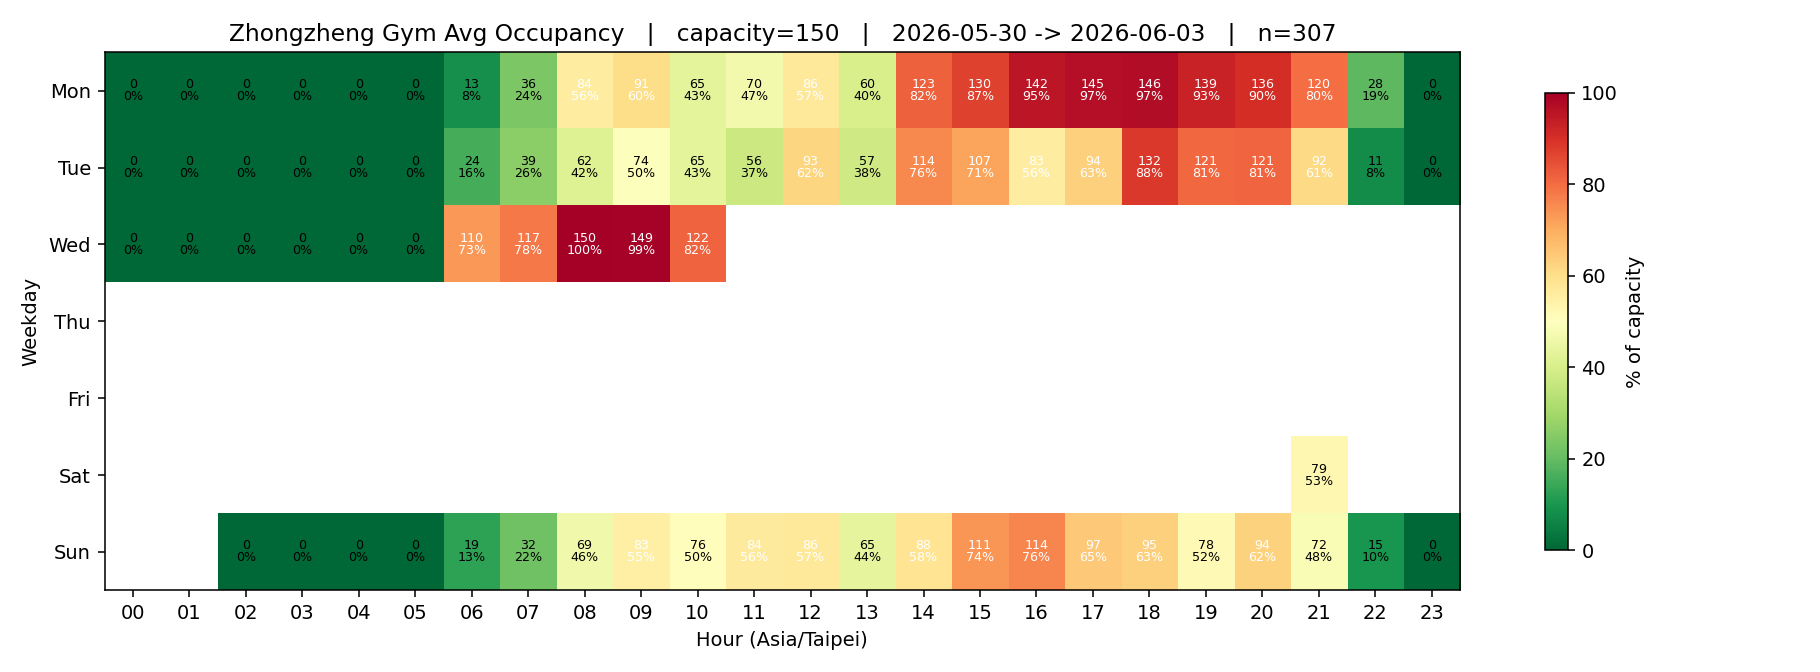
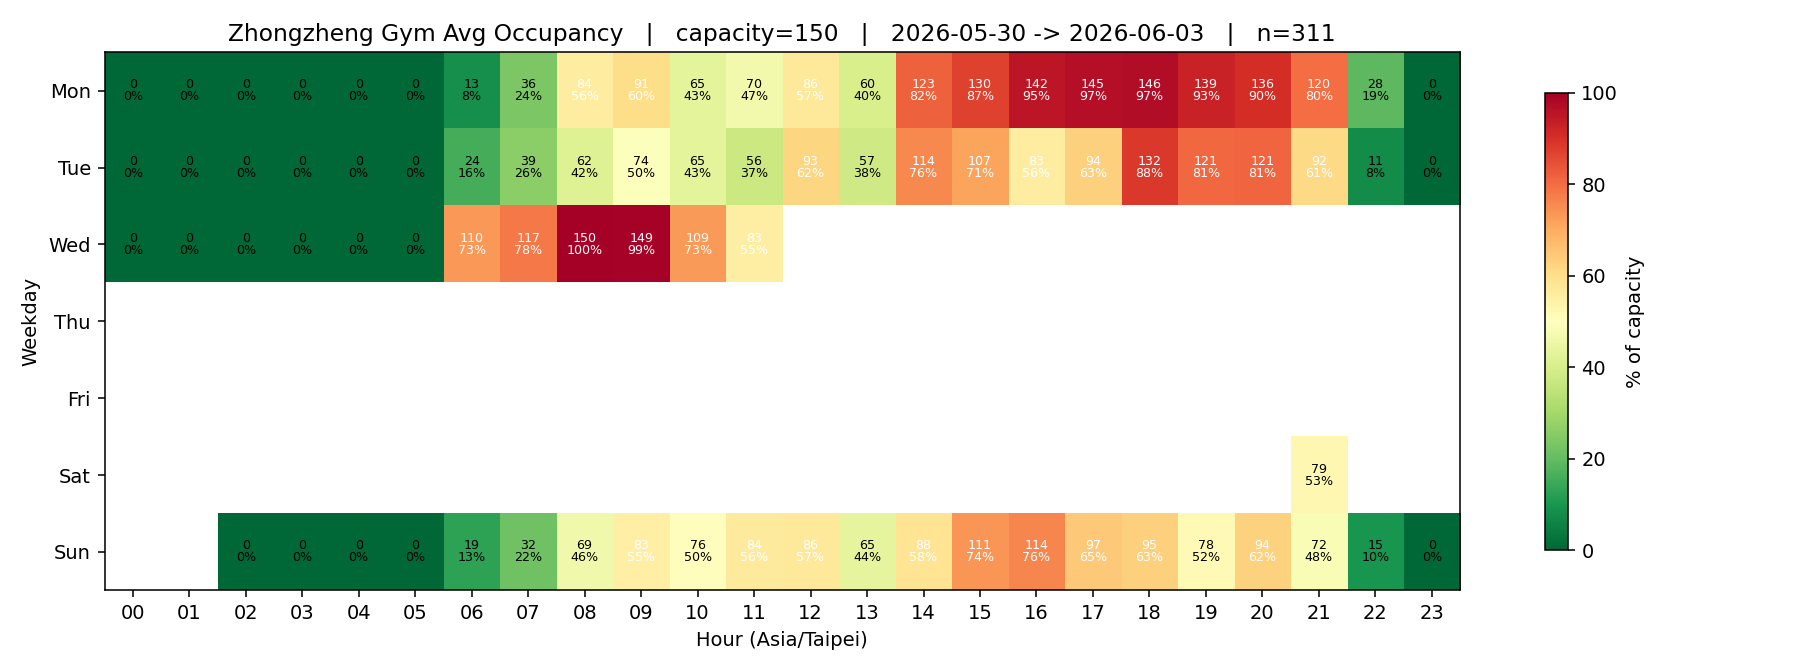
report: daily 2026-06-03

Changed region(s): [[0.1231, 0.0312, 0.4615, 0.0625], [0.3692, 0.2812, 0.4308, 0.4375], [0.4923, 0.0312, 0.7385, 0.0625]]

diff --git a/reports/summary.md b/reports/summary.md
@@ -1,6 +1,6 @@
 # 中正運動中心健身房 報告
 
-資料區間: `2026-05-30 -> 2026-06-03`, 共 **307** 筆觀測，capacity = **150** 人
+資料區間: `2026-05-30 -> 2026-06-03`, 共 **311** 筆觀測，capacity = **150** 人
 
 ![heatmap](heatmap-latest.png)
 
